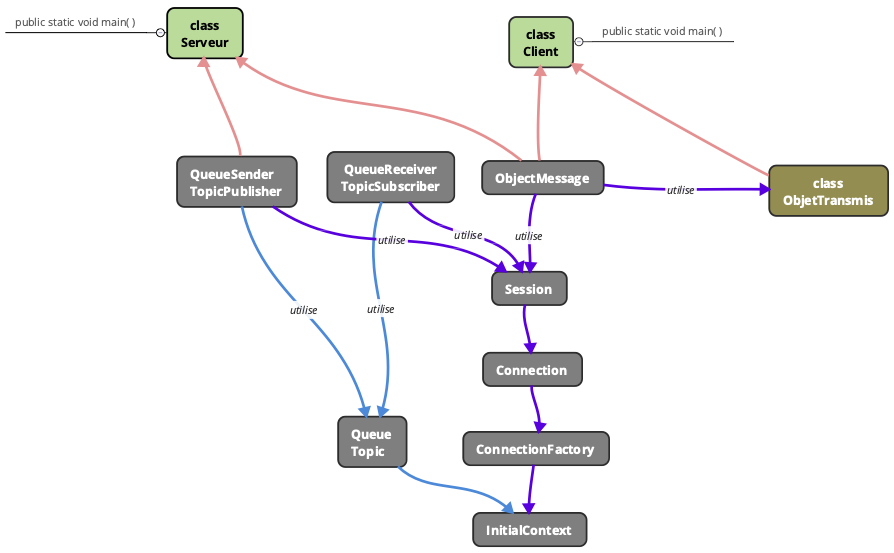
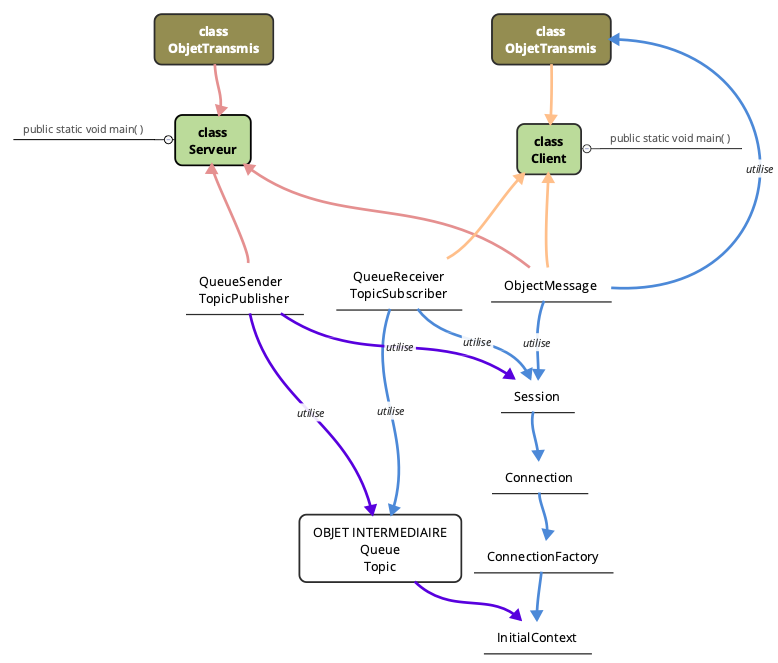
x

diff --git a/java.html b/java.html
@@ -55,7 +55,7 @@ function affichageConditionnel(bouton, id) {
                 compatible toutes plateformes JVM Java Virtual Machine pour interpréter le Byte code. De ce fait,
                 c'est un langage offrant une grande portabilité.
                 C’est un langage à la fois compilé et interprété. Il est donc plus rapide que Python (interprété) mais
-                plus lent que C++ (compilé). java -version en ligne de commande permet de vérifier que java est installé.</p>
+                plus lent que C++ (compilé).</p>
         </div>
 
         <div class="droite">
@@ -86,6 +86,7 @@ function affichageConditionnel(bouton, id) {
 
     <p>Pour exécuter un programme Java en utilisant le terminal, il faut d'abord se rendre dans le dossier comportant le fichier, puis compiler le programme avec la commande</p> <pre><code class="language-javascript">javac monFichier.java</code></pre> <p>Le fichier se transforme alors en binaire exécutable par la Machine Virtuelle Java : monFichier.class. Pour exécuter ce programme il reste maintenant à utiliser la commande</p> <pre><code class="language-javascript">java monFichier</code></pre>
 
+        <p>Notons que <em>java -version</em> en ligne de commande permet de vérifier que Java est bien installé.</p>
     </div>
 
 
@@ -242,7 +243,45 @@ public class Principale {
 
     </div>
 
+    <!------------- LES TABLEAUX ----------------------------->
 
+    <h3>Les tableaux<button type="submit" onclick="affichageConditionnel(this,'tableaux_cache');"> + </button></h3>
+
+    <div id="tableaux_cache" style="display:none;">
+
+        <p>Les tableaux sont des éléments de stockage statiques, dont la taille ne doit pas varier. Ainsi, on ne peut pas rajouter d'élément à un tableau sous peine d'en modifier totalement la structure. Les tableaux sont indexés à partir de 0 et n'admettent pas de système clé-valeur.</p>
+
+        <pre><code class="language-javascript">import java.util.*;</code></pre>
+
+        <h4>Déclaration d'un tableau</h4>
+
+        <p>Un tableau doit être déclaré en indiquant le type d'objet qu'il contient. Il ne peut pas contenir des objets de types différents. Toutefois, on peut facilement déroger à cette règle en créant des tableaux de type Object qui est très large.</p>
+
+        <pre><code class="language-javascript">Object[] tab = {"hello", 13, 's'};</code></pre>
+
+        <p>Lors de la déclaration d'un tableau, doit être également précisé le nombre d'éléments qu'il contient. Le typage d'un élément et la taille du tableau ne pourront plus être modifiés ultérieurement.</p>
+
+        <pre><code class="language-javascript">int[] tab = {12, 1, 34, 21};</code></pre>
+
+        <p>Lors de la déclaration d'un tableau vide, tous les éléments sont initialisés automatiquement, les nombres à 0, les booleans à false, les objets et chaînes de caractères à null.</p>
+
+        <pre><code class="language-javascript">int[] tab = new int[6];</code></pre>
+
+        <h4>Affichage d'un tableau</h4>
+
+        <pre><code class="language-javascript">for(int i=0; i&lt tab.length; i++){
+    System.out.print(tab[i]+"\t");</code></pre>
+        <p>ou encore</p>
+
+        <pre><code class="language-javascript">for(String valeur : tab){
+    System.out.print(valeur+"\t");</code></pre>
+
+        <h4>Vector</h4>
+
+        <p>La classe Vector, aujourd'hui désuète, permet de définir des tableaux utilisant des méthodes proches de celles des listes. Notons que la classe Vector est compatible avec la synchronisation à l'aide de threads. </p>
+
+
+    </div>
 
 
 
@@ -498,13 +537,15 @@ import java.net.*;</code></pre>
 
     <p>Le serveur crée une socket de connexion sur un port défini, puis attend la demande de communication venant d'un client pour ouvrir une socket de communication. De son côté, le client crée une socket de communication à l'adresse du serveur et sur le port défini.</p>
 
+        <img src="socket.png" height="300" width="750">
+
         <p>Une communication par Sockets est structurée de la façon suivante :</p>
         <ul>
             <li>une classe Server comprenant une socket de connexion et une socket de communication</li>
-            <li>une classe Client comprenant une socket de connexion</li>
+            <li>une classe Client comprenant une socket de communication</li>
         </ul>
 
-        <img src="socket.png">
+        <img src="socketObjet.png">
 
         <h4>Tester les ports disponibles du client</h4>
 
@@ -537,7 +578,7 @@ import java.net.*;</code></pre>
 
     <p>La machine virtuelle Java ferme les sockets non utilisés à la fin de l'exécution du programme. Toutefois, le nombre de sockets ouvertes par un programme est limité, ce qui conduit à des erreurs quand cette limite est atteinte. La méthode close() permet de fermer la connexion.</p>
 
-        <h4>Exemple de transmission d'une chaîne de caractères :</h4>
+        <h4>Exemple de transmission d'une chaîne de caractères par TCP :</h4>
 
         <p>Il n'est pas nécessaire de transmettre la taille des String avec le message lorsqu'on utilise les méthodes writeUTF() et readUTF() qui détectent automatiquement la taille des String dans un flux. La quantité d'information transmise est donnée par message.length() si on note message la variable représentant le message reçu.</p>
 
@@ -559,7 +600,6 @@ import java.net.*;</code></pre>
             System.out.println("Message reçu : " + dis.readUTF());
 
             // fermeture connexion
-            dis.close();
             com.close();
             srv.close();
         } catch (IOException e) {
@@ -582,7 +622,6 @@ import java.net.*;</code></pre>
             dos.writeUTF("hello world");
 
             // fermeture connexion
-            dos.close();
             clt.close();
         } catch (IOException e) {
             e.printStackTrace();
@@ -590,7 +629,7 @@ import java.net.*;</code></pre>
     }
 }</code></pre>
 
-        <h4>Exemple de transmission d'un entier :</h4>
+        <h4>Exemple de transmission d'un entier par TCP :</h4>
 
         <p>Dans cet exemple un client transmet au serveur un entier.</p>
 
@@ -606,7 +645,6 @@ import java.net.*;</code></pre>
 
             System.out.println("Message received: " + dis.readInt());
 
-            dis.close();
             com.close();
             srv.close();
         } catch (IOException e) {
@@ -626,7 +664,6 @@ import java.net.*;</code></pre>
 
             dos.writeInt(1420);
 
-            dos.close();
             clt.close();
         } catch (IOException e) {
             e.printStackTrace();
@@ -634,11 +671,9 @@ import java.net.*;</code></pre>
     }
 }</code></pre>
 
-        <h4>Exemple de transmission d'un objet :</h4>
+        <h4>Exemple de transmission d'un objet par TCP :</h4>
 
         <p>Dans cet exemple, un client transmet au serveur un objet sous forme de message.</p>
-
-        <img src="socketObjet.png">
 
         <p><em>Côté serveur</em> </p>
 
@@ -657,8 +692,6 @@ import java.net.*;</code></pre>
             ObjetEchange obj = (ObjetEchange) ois.readObject();
             System.out.println("Message reçu : " + obj.toString());
 
-            ois.close();
-            dis.close();
             com.close();
             srv.close();
         } catch (IOException e) {
@@ -680,12 +713,10 @@ import java.net.*;</code></pre>
             Socket clt = new Socket("domaineHote", 5555);
             // communication sortante, les data sont placees dans un objet transmis sous forme de Message
             DataOutputStream dos = new DataOutputStream(clt.getOutputStream());
-            ObjectOutputStream  ois = new ObjectOutputStream(dos);
+            ObjectOutputStream  oos = new ObjectOutputStream(dos);
 
-            ois.writeObject(obj);
+            oos.writeObject(obj);
 
-            ois.close();
-            dos.close();
             clt.close();
         } catch (IOException e) {
             e.printStackTrace();
@@ -713,7 +744,7 @@ import java.net.*;</code></pre>
     }
 }</code></pre>
 
-        <h4>Exemple de serveur connecté à plusieurs clients :</h4>
+        <h4>Exemple de serveur connecté à plusieurs clients par TCP :</h4>
 
         <p>Le serveur ne traite qu'un seul client à la fois. Si ce traitement prend du temps, les autres clients peuvent être bloqués. Pour éviter ce problème, la gestion des connexions peut être pilotée par des threads. On privilégie alors le pool de threads à la création dynamique de threads par souci de performance car dans ce dernier cas, il est possible de créer une infinité de threads ou encore de créer et détruire un thread à chaque nouvelle connexion.</p>
 
@@ -721,6 +752,8 @@ import java.net.*;</code></pre>
         <p><em>Côté serveur</em></p>
 
         <p>Le serveur commence par créer un ensemble de threads en attente de recevoir une demande de connexion. Lorsqu'un client demande une connexion, elle est prise en charge par un des threads.</p>
+
+        <img src="socketPool.png">
 
         <pre><code class="language-javascript">public class ServeurTCP {
     public static void main(String[] args) {
@@ -741,18 +774,18 @@ import java.net.*;</code></pre>
 public class ServerThread extends Thread { // gestion des threads pour chaque connexion
     ServerSocket srv;
 
-    public ServerThread(ServeurSocket sock) {
-        srv = sock;
+    public ServerThread(ServeurSocket srv) {
+        this.srv = srv;
     }
 
     public void run() {
         try{
             for(int i=0; i<11; i++) { // on considère 10 clients
                 Socket com = srv.accept();
-                DataOutputStream dos = new DataOutputStream(com.getOutputStream());
+                DataInputStream dis = new DataInputStream(com.getInputStream());
 
                 while(true) {
-                    dos.readUTF("hello world");
+                    dis.readUTF("hello world");
                 }
                 com.close();
             }
@@ -772,7 +805,6 @@ public class ServerThread extends Thread { // gestion des threads pour chaque co
 
             dos.writeUTF("hello world");
 
-            dos.close();
             clt.close();
         } catch (IOException e) {
             e.printStackTrace();
@@ -789,6 +821,8 @@ public class ServerThread extends Thread { // gestion des threads pour chaque co
 
 
         <h4>Exemple de transmission d'une chaîne de caractères :</em></h4>
+
+        <p>Dans cet exemple le serveur reçoit une chaîne de caractères provenant d'un client.</p>
 
         <p><em>Côté serveur</em> </p>
 
@@ -1153,7 +1187,9 @@ import javax.jms.*;</code></pre>
         <p> Dans la communication point-à-point, l'objet intermédiaire est une file d'attente (queue). Plusieurs senders peuvent envoyer sur la même file d'attente mais un seul receiver peut voir le message. On parle de communication N à 1. La communication est asynchrone et mémorisée. C'est le cas par exemple lorsqu'on utilise une imprimante en mode connecté, ou encore lorsqu'on utilise une boîte mail.</p>
         <p> Dans la communication événementielle, l'objet intermédiaire est un sujet (topic). Les publishers envoient leurs messages sur un topic. Les subscribers s'inscrivent au topic pour recevoir les messages publiés sur ce topic. Plusieurs publishers peuvent envoyer des messages sur le même topic et plusieurs subscribers peuvent consulter les messages du topic. C'est le cas par exemple lors d'un fil de discussion dans un tchat.</p>
 
-    <h4>Construction d'un service de messagerie Topic avec JMS 1.1</h4>
+    <h4>Exemple d'une communication Topic avec JMS 1.1 :</h4>
+
+        <p>Dans cet exemple le serveur envoie une chaîne de caractères provenant à un client.</p>
 
     <p><em>Côté serveur :</em></p>
 
@@ -1220,7 +1256,9 @@ import javax.jms.*;</code></pre>
     }
 }</code></pre>
 
-    <h4>Construction d'un service de messagerie Queue avec JMS 1.1</h4>
+    <h4>Exemple d'une communication Queue avec JMS 1.1 :</h4>
+
+      <p>Dans cet exemple le serveur reçoit une chaîne de caractères provenant d'un client.</p>
 
         <p><em>Côté serveur :</em></p>
 
@@ -1272,8 +1310,9 @@ import javax.jms.*;</code></pre>
     }
 }</code></pre>
 
-    <h4>Echange de mails avec JMS 1.1</h4>
+    <h4>Exemple d'un échange de mails avec JMS 1.1 :</h4>
 
+        <p>Dans cet exemple, un serveur transmet et reçoit une réponse d'un client. On utilise le mode Queue qui se prête bien à ce type d'échange.</p>
     <p><em>Côté serveur</em></p>
 
     <pre><code class="language-javascript">public class Serveur { // sender
@@ -1342,14 +1381,15 @@ import javax.jms.*;</code></pre>
     }
 }</code></pre>
 
-    <p><em>et la classe Letter :</em></p>
+    <p><em>et la classe ObjetEchange :</em></p>
 
-    <pre><code class="language-javascript">public class Letter implements Serializable {
+        <p>La classe ObjetEchange doit être présente à la fois côté serveur et côté client. Comme l'objet doit être transmis, la classe ObjetEchange implémente l'interface Serialitable.</p>
+    <pre><code class="language-javascript">public class ObjetEchange implements Serializable {
     String emetteur;
     GregorianCalendar date;
     String texte;
 
-    public Letter(String emetteur, GregorianCalendar date, String texte) {
+    public ObjetEchange(String emetteur, GregorianCalendar date, String texte) {
 	    this.emetteur = emetteur;
 	    this.date = date;
 	    this.texte = texte;
@@ -1357,7 +1397,7 @@ import javax.jms.*;</code></pre>
 
     @Override
     public String toString() {
-        System.out.println("message de : " + emet + ", émis le : " + date.getTime() + ", contenu : " + text );
+        System.out.println("message de : " + emetteur + ", émis le : " + date.getTime() + ", contenu : " + texte );
     }
 }</code></pre>
 
